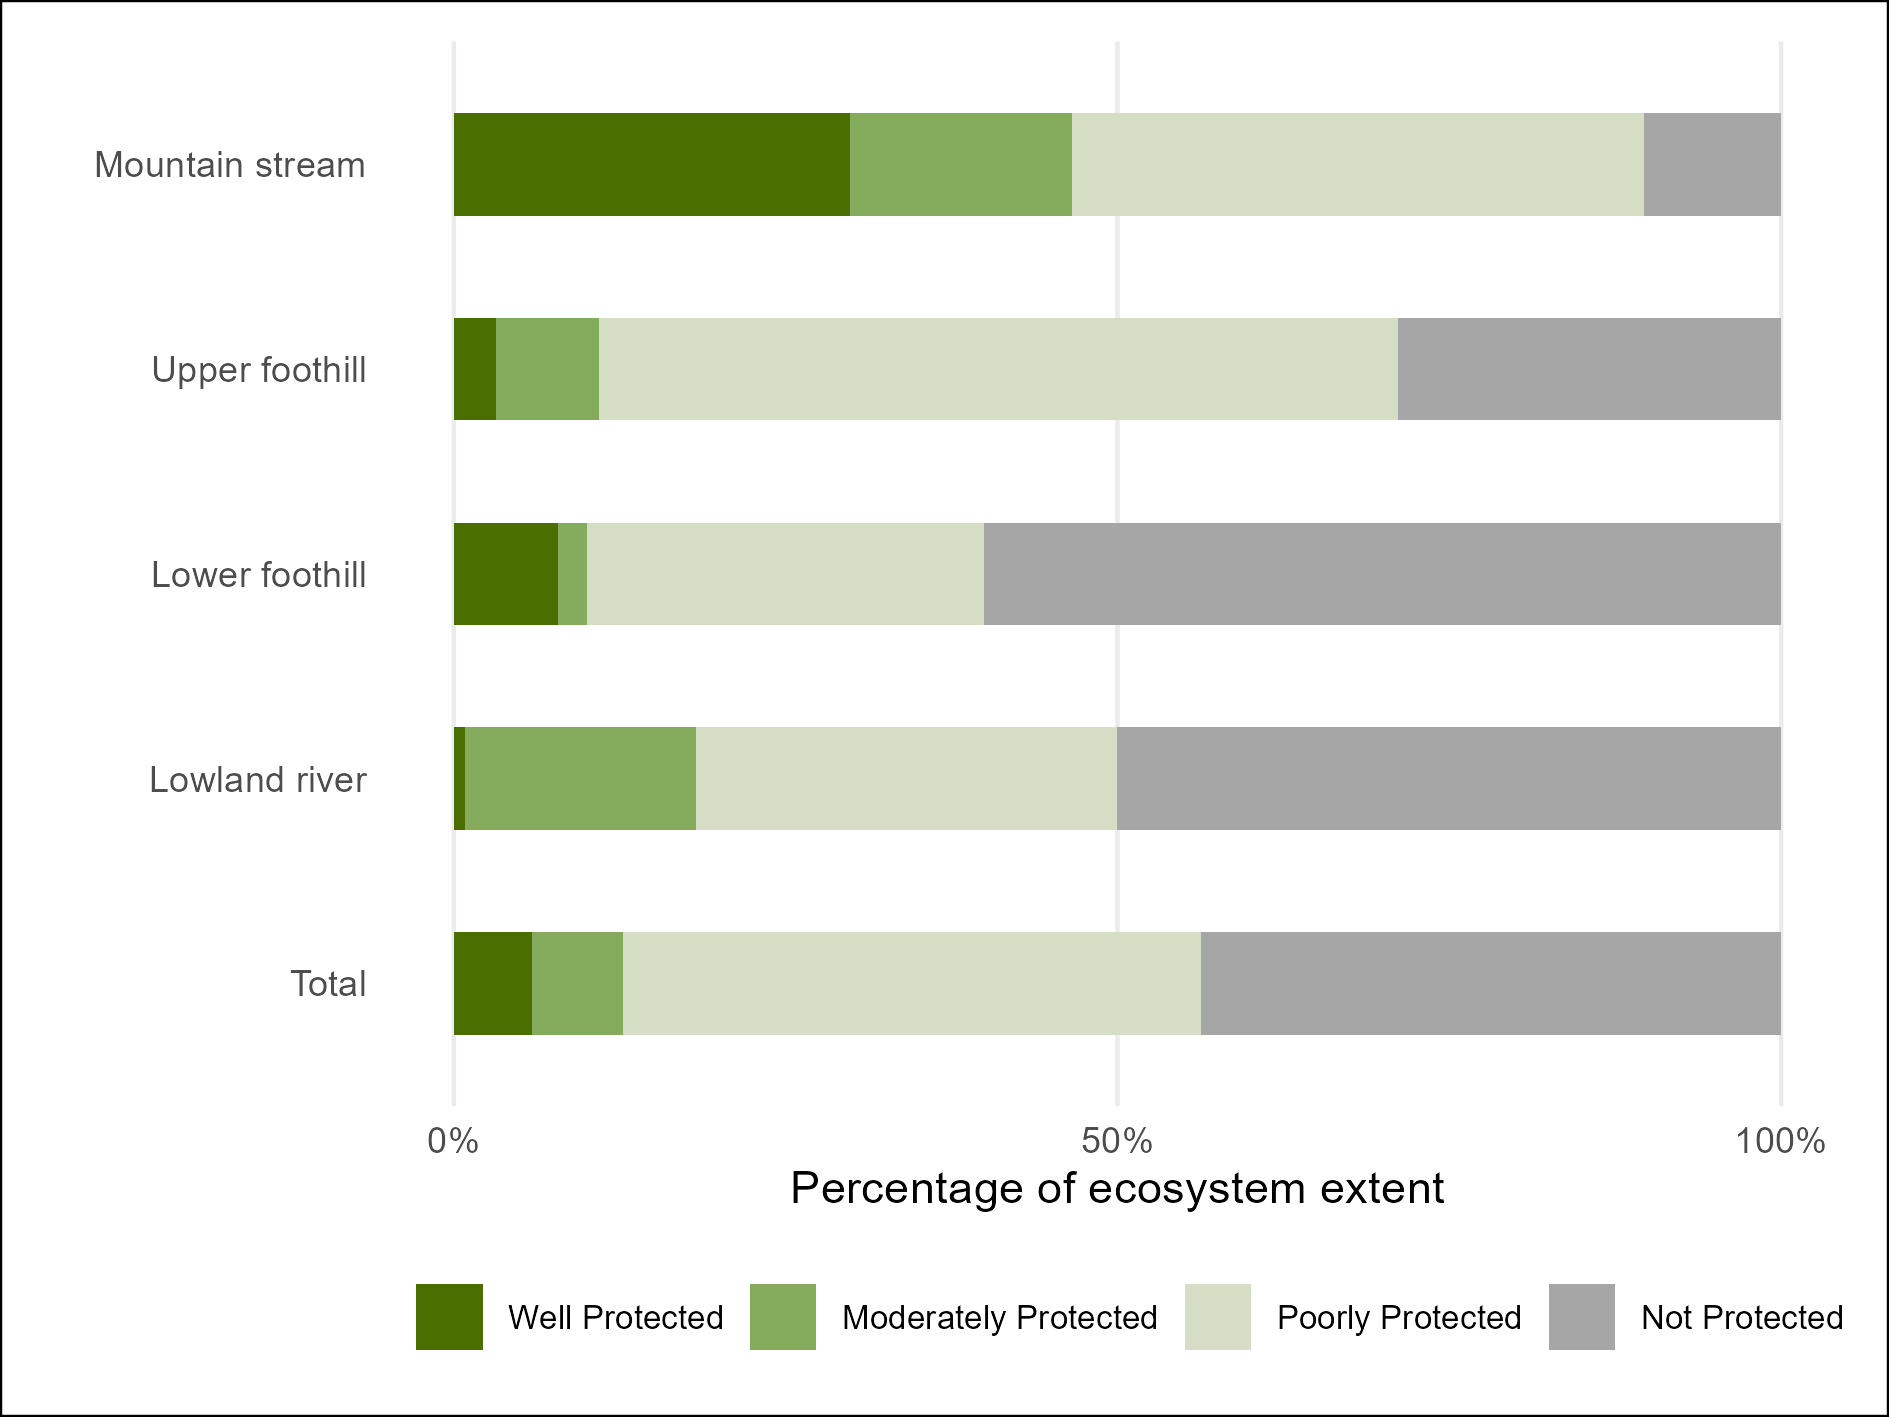
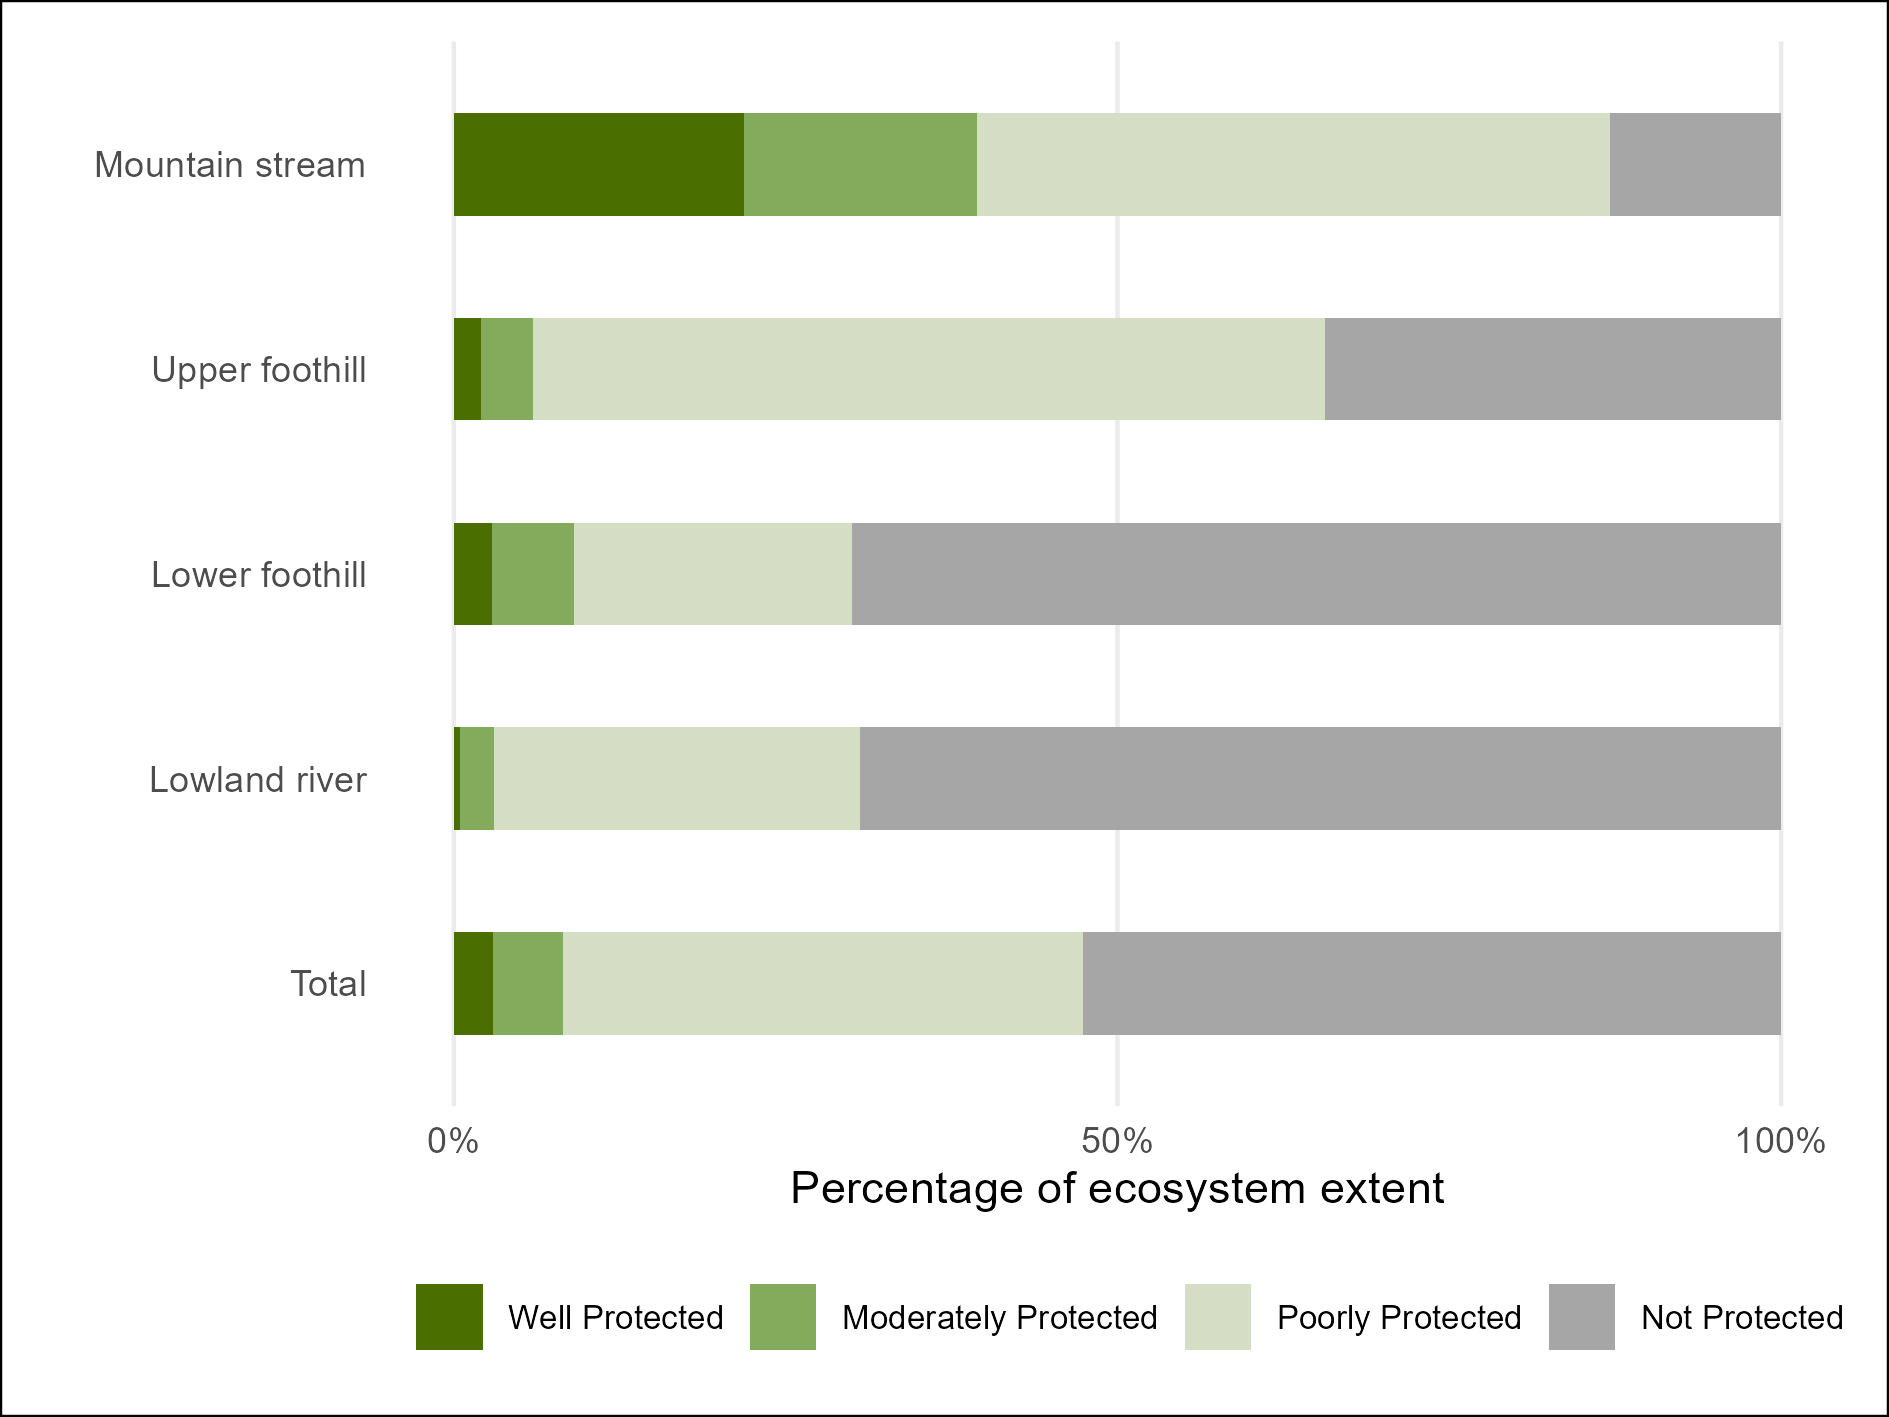
update EPL using 30% GBF target

diff --git a/README.md b/README.md
@@ -22,15 +22,19 @@ Protection Level is an indicator developed in South Africa that measures the rep
 
 -   Not Protected: less than 5% of PA target within the PA network
 
-The PA target was historically set at 20% for freshwater ecosystems, but with the adoption of the 30% for Target 3 of the Global Biodiversity Framework - the PA target increased to 30% in the EPL calculations (previous time points (2018) were recalculated using this higher target). Ecosystem condition (based on Present Ecological State) data for each time point allows for only intact (good condition river reaches to be considered representative). Only A and B condition rivers are considered "good"condition (\>=50% ecosystem integrity).
+The PA target was historically set at 20% for freshwater ecosystems, but with the adoption of the 30% for Target 3 of the Global Biodiversity Framework - the PA target was increased to 30% in the EPL calculations (previous time points (2018) were recalculated using this higher target). Ecosystem condition (based on Present Ecological State) data for each time point allows for only intact (good condition river reaches to be considered representative). Only A and B condition rivers are considered "good"condition (\>=50% ecosystem integrity).
 
 #### Results:
 
 Overall per-ecosystem type EPL results [epl_riv_metrics_per_type.csv](outputs/epl_riv_metrics_per_type.csv)
 
-Summary table - count of river ecosystem types per slope zone per EPL category [epl24_riv_sum_count.csv](outputs/epl24_riv_sum_count.csv) [epl24_riv_bar_plot_ext.jpeg](outputs/epl24_riv_bar_plot_ext.jpeg)
+Summary table - count of river ecosystem types per slope zone per EPL category [epl24_riv_sum_count.csv](outputs/epl24_riv_sum_count.csv)
 
-Summary table - extent of river per slope zone per EPL category [epl24_riv_sum_ext.csv](outputs/epl24_riv_sum_ext.csv) [epl24_riv_bar_plot_count.jpeg](outputs/epl24_riv_bar_plot_count.jpeg)
+[epl24_riv_bar_plot_count.jpeg](outputs/epl24_riv_bar_plot_count.jpeg)
+
+![River Ecosystem - Ecosystem Protection Level 2025](outputs/epl24_riv_bar_plot_count.jpeg)
+
+Summary table - extent of river per slope zone per EPL category [epl24_riv_sum_ext.csv](outputs/epl24_riv_sum_ext.csv) [epl24_riv_bar_plot_ext.jpeg](outputs/epl24_riv_bar_plot_ext.jpeg)
 
 Summary table - extent of river e per slope zone per EPL category (expressed as a proportion) [epl24_riv_sum_prp.csv](outputs/epl24_riv_sum_prp.csv)
 
